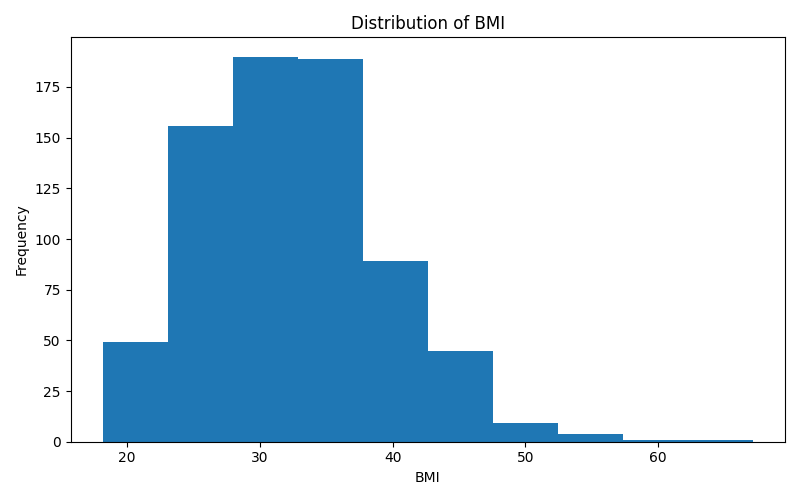
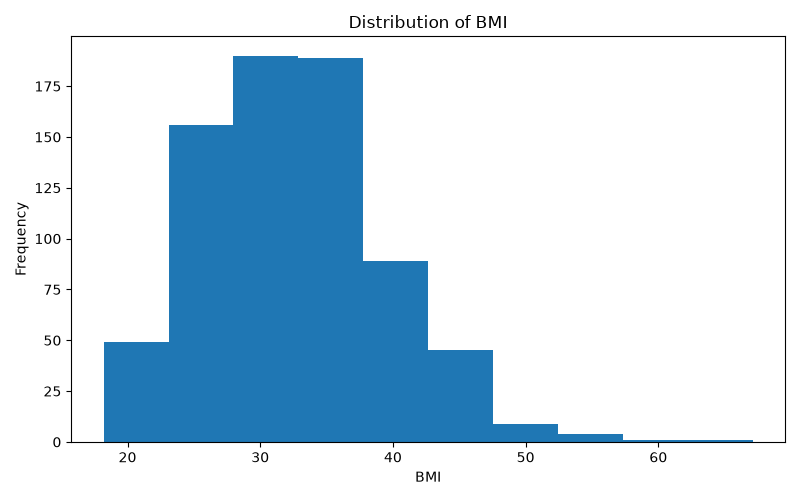
fix: improve project startup scripts and environment loading

diff --git a/frontend/api_client.py b/frontend/api_client.py
@@ -1,6 +1,12 @@
 # ==========================================================
 # FastAPI Client
 # ==========================================================
+import os
+
+from dotenv import load_dotenv
+
+
+load_dotenv()
 
 import requests
 
@@ -9,7 +15,8 @@ import requests
 # Configuration
 # ==========================================================
 
-API_URL = (
+API_URL = os.getenv(
+    "API_URL",
     "http://127.0.0.1:8000"
 )
 

diff --git a/app/llm/client.py b/app/llm/client.py
@@ -28,8 +28,9 @@ OPENROUTER_URL = (
     "https://openrouter.ai/api/v1/chat/completions"
 )
 
-DEFAULT_MODEL = (
-    "qwen/qwen3-8b"
+DEFAULT_MODEL = os.getenv(
+    "LLM_MODEL",
+    "openai/gpt-oss-20b:free"
 )
 
 
